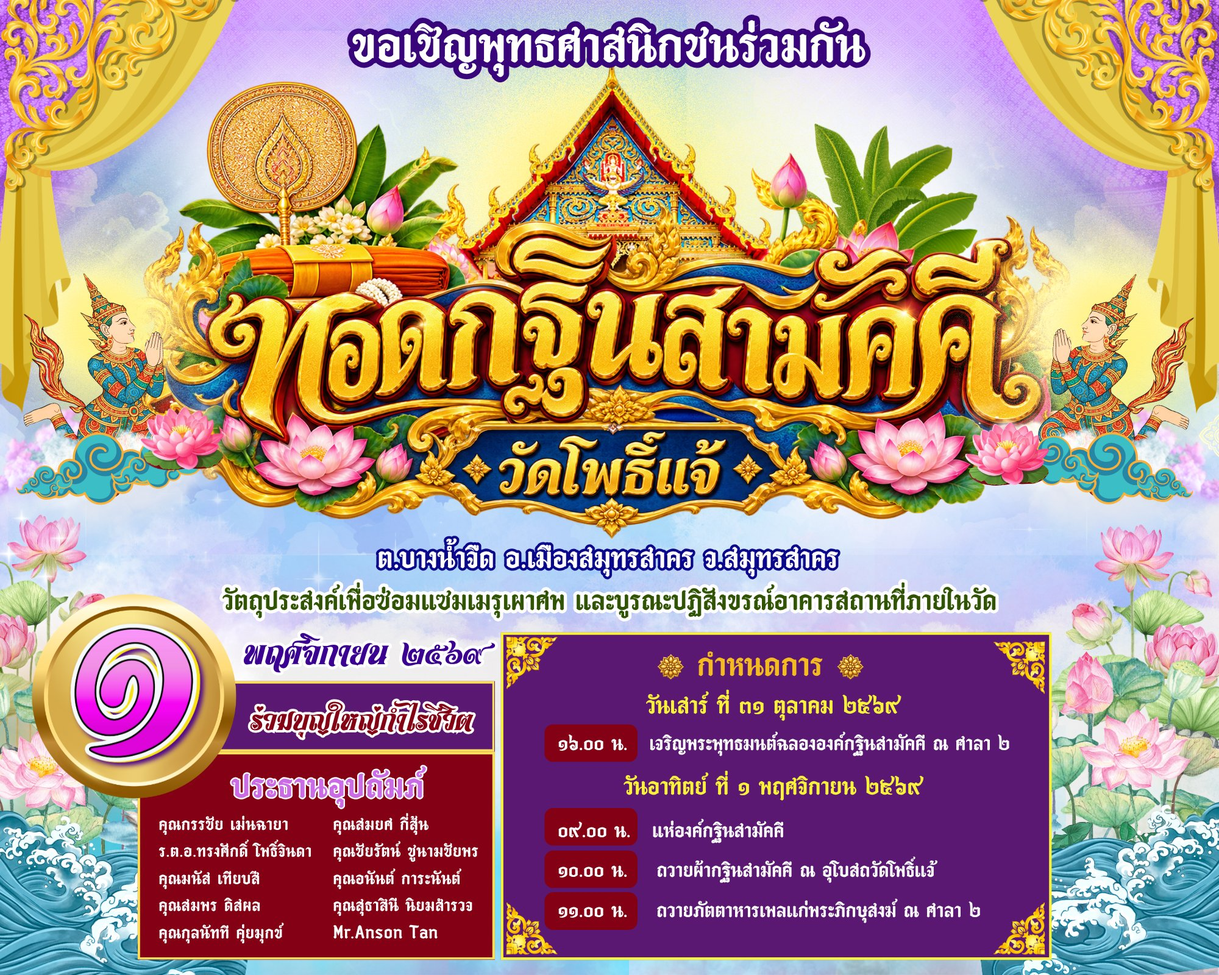
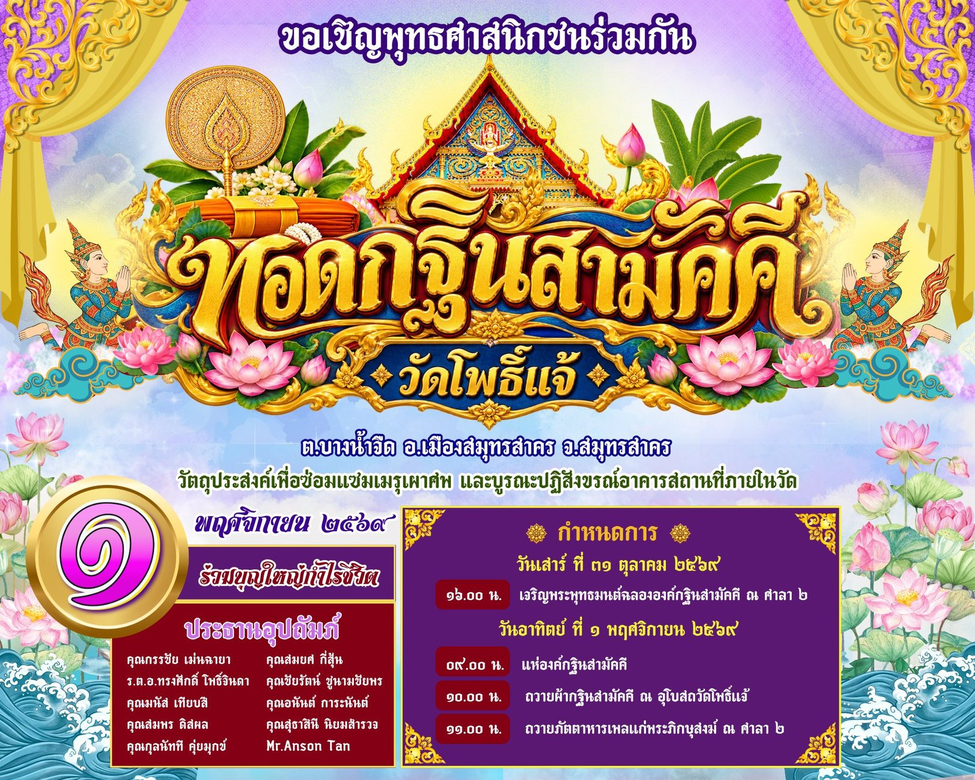
ความเร็ว: หน้าแรกเบาลงจาก 16.7 MB เหลือ 3.7 MB
- โปสเตอร์ธรรมะวันอาทิตย์ PNG 11.5 MB (5669 px) → JPG 2000 px 300 KB
- โลโก้ในหัว/ท้ายเว็บใช้ไฟล์ 256 px 28 KB (ไฟล์ 512 px เดิมยังใช้เป็นไอคอนแอป)
- โปสเตอร์กฐิน 869 → 541 KB (1600 px)

diff --git a/index.html b/index.html
@@ -129,7 +129,7 @@
     <!-- ═══ ส่วนหัว: โลโก้ซ้าย ปุ่มค้นหา/เมนูขวา (โปร่งบนภาพหน้าแรก ทึบเมื่อเลื่อนลง) ═══ -->
     <header class="hv-header">
         <a href="#hero" class="hv-brand" aria-label="วัดโพธิ์แจ้ หน้าแรก">
-            <img src="static/images/temple_logo.png?v=2" alt="" class="hv-logo">
+            <img src="static/images/temple_logo_256.png" alt="" class="hv-logo" width="52" height="52">
             <span class="hv-brand-text">
                 <span class="hv-brand-name">วัดโพธิ์แจ้</span>
                 <span class="hv-brand-sub">ต.บางน้ำจืด อ.เมือง จ.สมุทรสาคร</span>
@@ -666,7 +666,7 @@
     <footer class="hv-foot">
         <div class="hv-foot-grid">
             <div class="hv-foot-brand">
-                <a href="#hero" class="hv-foot-logo"><img src="static/images/temple_logo.png?v=2" alt=""><span>วัดโพธิ์แจ้</span></a>
+                <a href="#hero" class="hv-foot-logo"><img src="static/images/temple_logo_256.png" alt=""><span>วัดโพธิ์แจ้</span></a>
                 <p>เลขที่ ๑ หมู่ ๓ ถนนเอกชัย ตำบลบางน้ำจืด<br>อำเภอเมืองสมุทรสาคร จังหวัดสมุทรสาคร ๗๔๐๐๐</p>
                 <p class="hv-foot-phone"><i class="fas fa-phone"></i> โทร. <span id="footer-phone"></span></p>
             </div>
@@ -707,7 +707,7 @@
                 onclick="window.closeNewsModal()">&times;</button>
             <!-- Print header (แสดงเฉพาะตอนพิมพ์) -->
             <div id="print-header" style="display:none;">
-                <img src="static/images/temple_logo.png?v=2" alt="วัดโพธิ์แจ้">
+                <img src="static/images/temple_logo_256.png" alt="วัดโพธิ์แจ้">
                 <div>
                     <div style="font-size:1.2rem;font-weight:bold;color:#1b4d3e;">วัดโพธิ์แจ้</div>
                     <div style="font-size:0.85rem;color:#555;">ต.บางน้ำจืด อ.เมือง จ.สมุทรสาคร 74000 | โทร. 087-774-0111</div>

diff --git a/static/js/site-data.js b/static/js/site-data.js
@@ -33,7 +33,7 @@ const SITE_DATA = {
             title: "พิธีเจริญพระพุทธมนต์ฯ วันอาทิตย์",
             description: "ขอเชิญร่วมพิธีเจริญพระพุทธมนต์ ทำวัตรเย็นและเจริญกัมมัฏฐาน ทุกวันอาทิตย์ ตลอดเดือนมกราคม 2569 เวลา 17.30 น. เพื่อถวายเป็นพระราชกุศล",
             content: "ขอเชิญร่วมพิธีเจริญพระพุทธมนต์ ทำวัตรเย็นและเจริญกัมมัฏฐานเพื่อถวายเป็นพระราชกุศลแด่ สมเด็จพระนางเจ้าสิริกิติ์ พระบรมราชินีนาถ พระบรมราชชนนีพันปีหลวง<br><br>ทุกๆ วันอาทิตย์ ตลอดปี 2569 เวลา 17.30 น.<br>ณ ศาลาปฏิบัติธรรม (ศาลาหลวงพ่อหยก) วัดโพธิ์แจ้ จ.สมุทรสาคร",
-            image: "static/images/dhamma_sunday_poster.png"
+            image: "static/images/dhamma_sunday_poster.jpg"
         }
     ],
 

diff --git a/static/js/components.jsx b/static/js/components.jsx
@@ -91,7 +91,7 @@ const NewsSection = () => {
             id: 3,
             title: "พิธีเจริญพระพุทธมนต์ฯ วันอาทิตย์",
             description: "ขอเชิญร่วมพิธีเจริญพระพุทธมนต์ ทำวัตรเย็นและเจริญกัมมัฏฐาน ทุกวันอาทิตย์ ตลอดเดือนมกราคม 2569 เวลา 17.30 น. เพื่อถวายเป็นพระราชกุศล",
-            image: "static/images/dhamma_sunday_poster.png"
+            image: "static/images/dhamma_sunday_poster.jpg"
         }
     ]);
 
